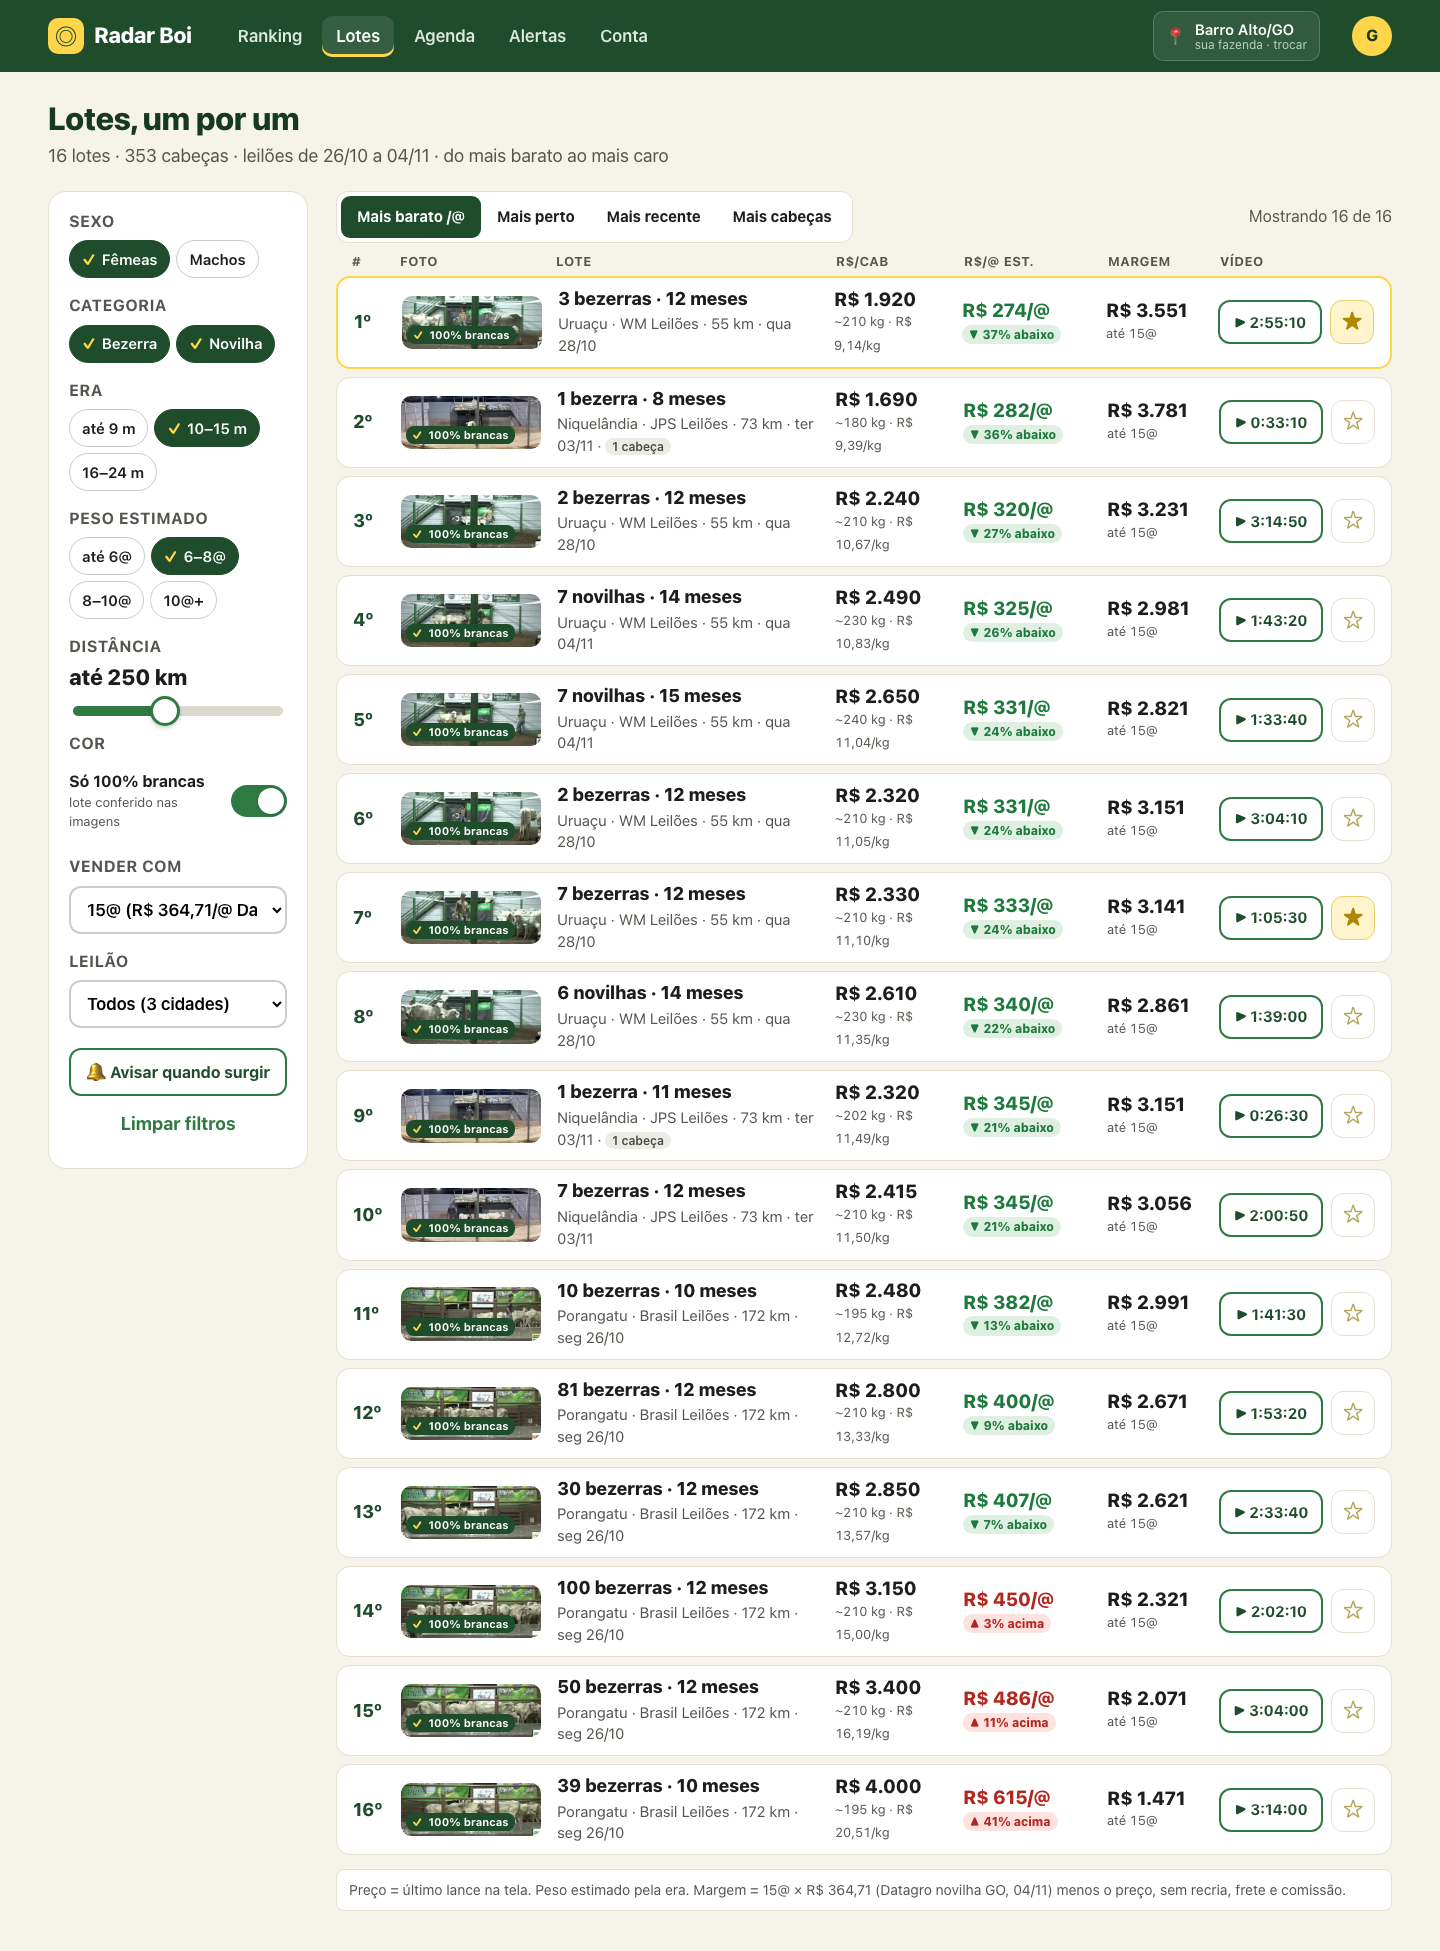
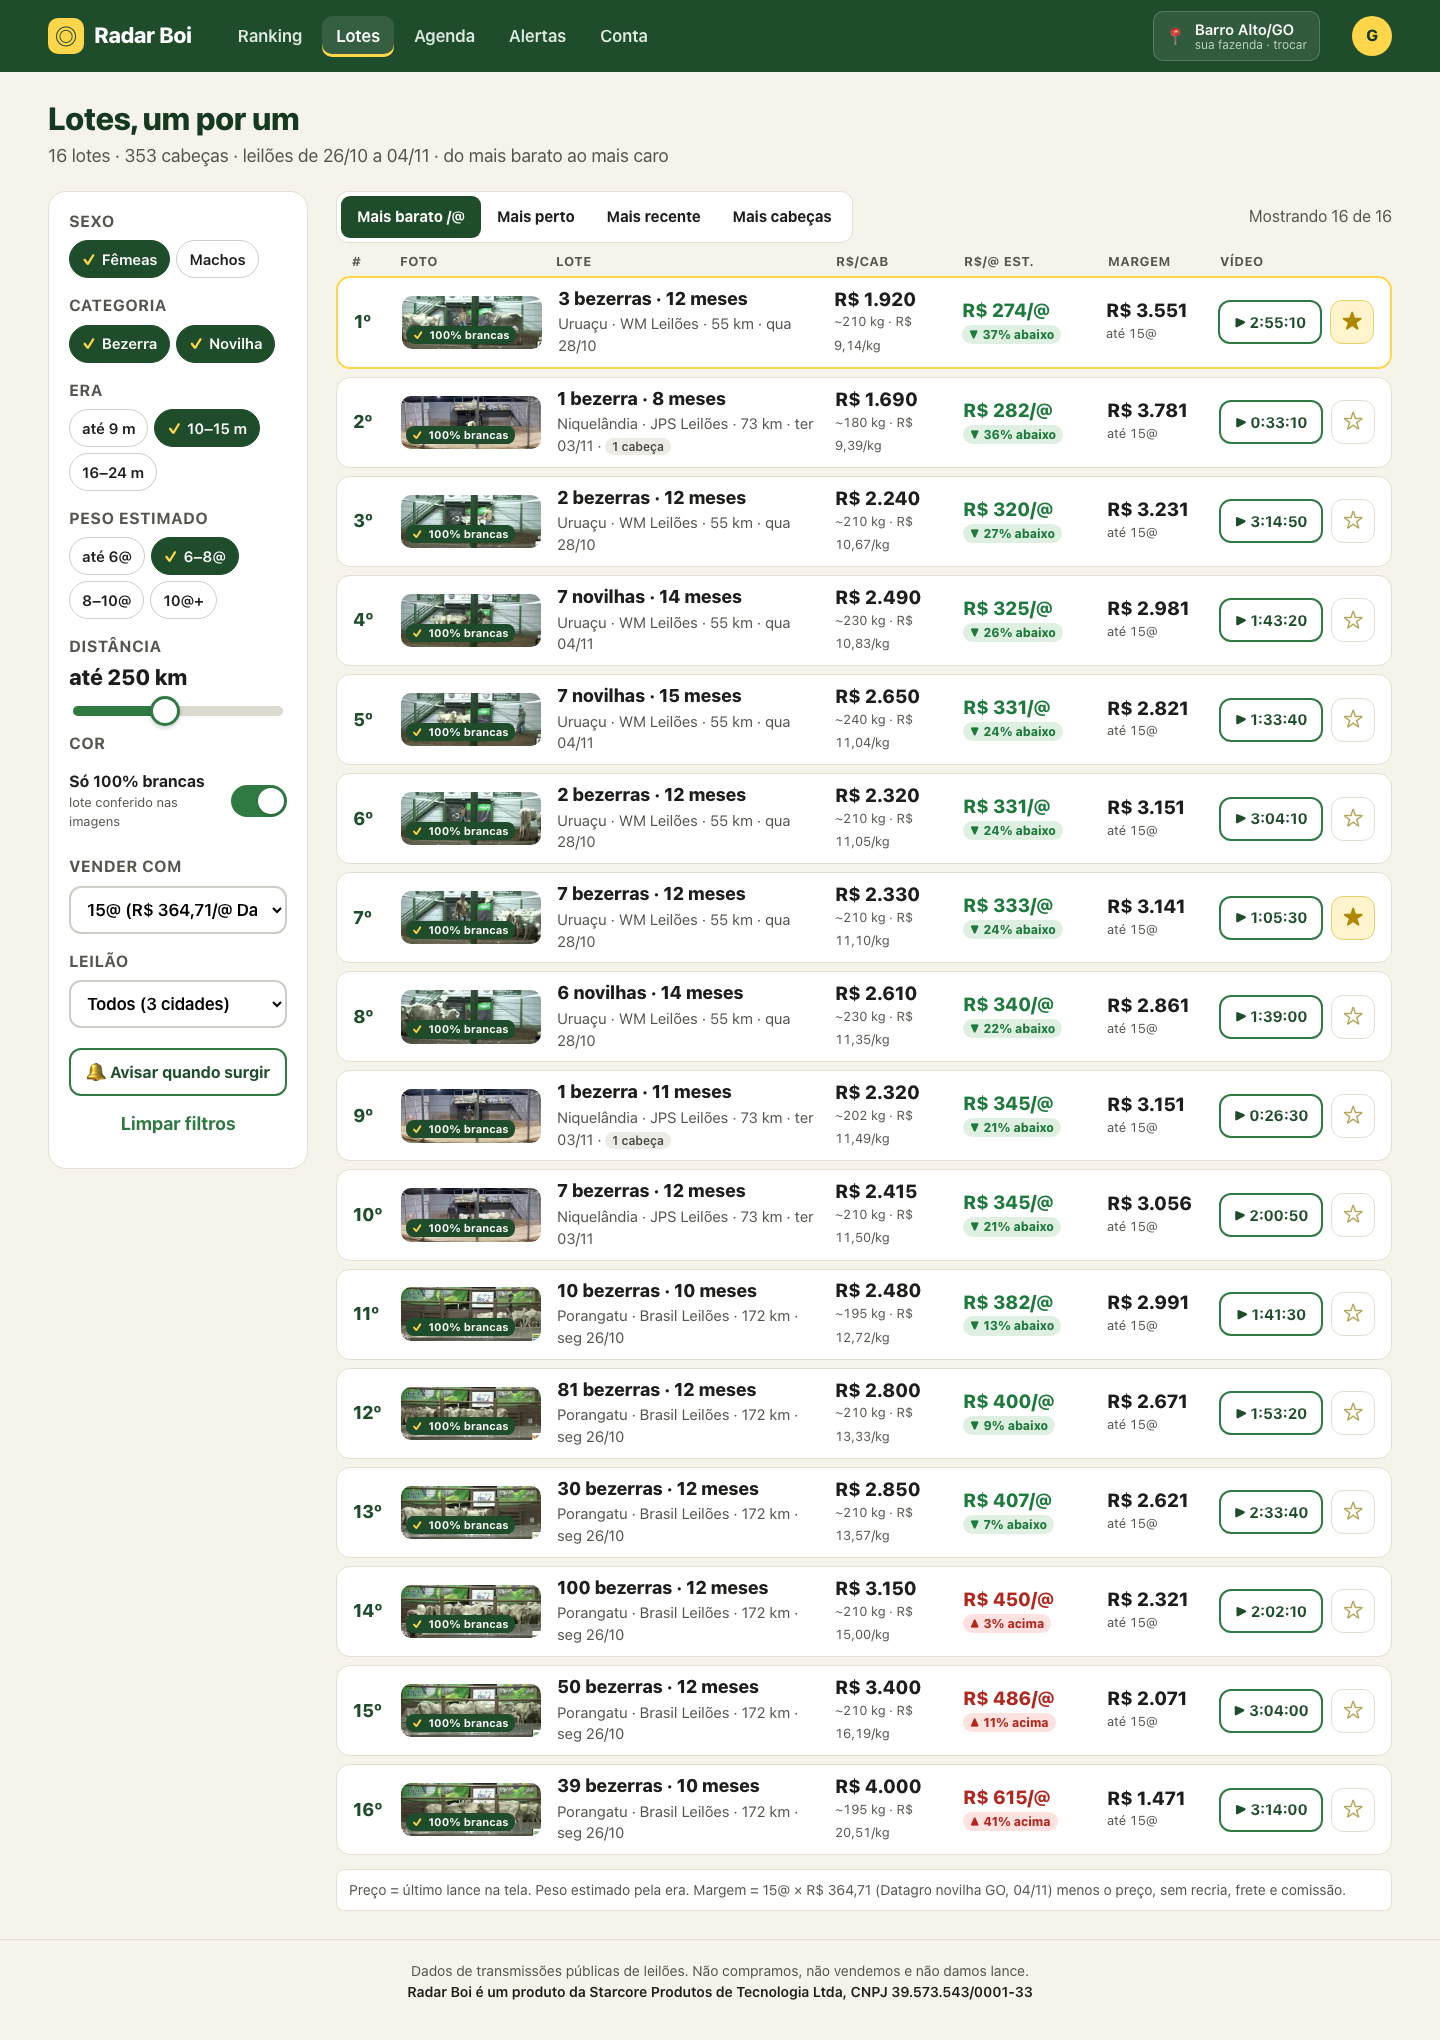
Rodapé legal: Starcore Produtos de Tecnologia Ltda, CNPJ 39.573.543/0001-33 (site, telas web e app/Conta)

diff --git a/docs/design/app/a12-conta.html b/docs/design/app/a12-conta.html
@@ -3,16 +3,17 @@
 <title>A12 · Conta, fazenda e plano · Radar Boi</title>
 <link rel="stylesheet" href="../rb.css">
 <style>
-.pf{display:flex;gap:14px;align-items:center;margin-bottom:14px}
+.pf{display:flex;gap:14px;align-items:center;margin-bottom:10px}
 .pf .av{width:60px;height:60px;border-radius:50%;background:var(--amarelo);display:grid;place-items:center;font:800 26px/1 var(--fonte);color:var(--verde-900)}
 .pf b{font-size:22px;display:block}.pf small{color:var(--cinza);font-size:15px}
 .pl{background:var(--amarelo);border-radius:16px;padding:14px 16px;display:flex;justify-content:space-between;align-items:center}
 .pl b{font-size:19px;display:block}.pl span{font-size:15px;color:#4a3a00}
 .pl .d{font:800 34px/1 var(--fonte);color:var(--verde-900);text-align:center}.pl .d small{display:block;font-size:12px}
-.gr{background:#fff;border:1px solid var(--areia);border-radius:16px;margin-top:12px}
-.gr .l{display:flex;align-items:center;gap:12px;padding:0 16px;min-height:56px;border-top:1px solid #eee;font-size:17px}
+.gr{background:#fff;border:1px solid var(--areia);border-radius:16px;margin-top:10px}
+.gr .l{display:flex;align-items:center;gap:12px;padding:0 16px;min-height:48px;border-top:1px solid #eee;font-size:17px}
 .gr .l:first-child{border-top:0}
 .gr .l i{font-style:normal;width:26px;text-align:center}
+.legal{text-align:center;color:var(--cinza);font-size:13px;line-height:1.4;margin:10px 8px 4px}
 .gr .l span{flex:1}.gr .l em{font-style:normal;color:var(--cinza);font-size:15px}
 </style></head>
 <body class="app-pg">
@@ -35,6 +36,7 @@
     <div class="l"><i>💬</i><span>Falar no WhatsApp</span><em>›</em></div>
     <div class="l"><i>📶</i><span>Modo sinal fraco</span><span class="rb-toggle is-on" style="flex:none"></span></div>
   </div>
+  <p class="legal">Radar Boi é um produto da Starcore Produtos de Tecnologia Ltda, CNPJ 39.573.543/0001-33</p>
 </div><nav class="rb-tabbar"><a class=""><span class="i">⌂</span>Início</a><a class=""><span class="i">🐂</span>Lotes</a><a class=""><span class="i">📅</span>Agenda</a><a class=""><span class="i">🔔</span>Alertas<span class="bol">2</span></a><a class="is-on"><span class="i">👤</span>Conta</a></nav>
 <span class="home-ind"></span>
 </div>

diff --git a/docs/design/index.html b/docs/design/index.html
@@ -50,5 +50,4 @@ figcaption b{font-size:16px} figcaption span{color:var(--cinza)} figcaption em{f
 <figcaption><b>Resumo de segunda</b><span>6h, ranking da semana</span><em><a href="whatsapp/z01-resumo-segunda.html">HTML</a> · <a href="png/z01-resumo-segunda.png">PNG</a></em></figcaption></figure><figure class="m"><a href="whatsapp/z02-alerta-entrando.html"><img loading="lazy" src="png/z02-alerta-entrando.png" alt="Alerta entrando agora"></a>
 <figcaption><b>Alerta entrando agora</b><span>Com foto e botão</span><em><a href="whatsapp/z02-alerta-entrando.html">HTML</a> · <a href="png/z02-alerta-entrando.png">PNG</a></em></figcaption></figure></div></section><section><h2>Design system <small>1 telas</small></h2><div class="g gw"><figure class="w"><a href="componentes.html"><img loading="lazy" src="png/componentes.png" alt="Componentes e estados"></a>
 <figcaption><b>Componentes e estados</b><span>Cores, tipos, cards, vazio, carregando, erro, sem sinal</span><em><a href="componentes.html">HTML</a> · <a href="png/componentes.png">PNG</a></em></figcaption></figure></div></section>
-<div style="height:40px"></div>
-</main></body></html>
+</main><footer class="rb-rodape">Radar Boi é um produto da Starcore Produtos de Tecnologia Ltda, CNPJ 39.573.543/0001-33</footer></body></html>

diff --git a/docs/design/web/w01-landing.html b/docs/design/web/w01-landing.html
@@ -180,5 +180,5 @@ footer .in{max-width:1240px;margin:0 auto;padding:28px;display:flex;justify-cont
 </section>
 
 <section class="cta-f"><div class="sec"><h2>Teste 30 dias. Se não achar lote mais barato, cancela.</h2><a class="rb-btn rb-btn--wa" style="font-size:20px;padding:0 30px;min-height:64px">Começar pelo WhatsApp</a></div></section>
-<footer><div class="in"><span>◎ Radar Boi · radarboi.com</span><span>Dados de transmissões públicas de leilões. Não compramos, não vendemos e não damos lance.</span></div></footer>
+<footer><div class="in"><span>◎ Radar Boi · radarboi.com</span><span>Dados de transmissões públicas de leilões. Não compramos, não vendemos e não damos lance.<br><b style="color:#fff">Radar Boi é um produto da Starcore Produtos de Tecnologia Ltda, CNPJ 39.573.543/0001-33</b></span></div></footer>
 </body></html>

diff --git a/docs/design/rb.css b/docs/design/rb.css
@@ -210,3 +210,9 @@ body.app-pg{background:#d9d5c8;display:flex;justify-content:center;align-items:f
 .a-sec a{font-size:16px;font-weight:700;text-decoration:none}
 .home-ind{position:absolute;bottom:8px;left:50%;margin-left:-67px;width:134px;height:5px;border-radius:3px;background:#111}
 .escuro .home-ind{background:#fff}
+
+/* ---------- Rodapé legal (RodapeLegal) ---------- */
+.rb-rodape{border-top:1px solid var(--areia);background:var(--creme);color:var(--cinza);font:400 var(--t-14)/1.5 var(--fonte);text-align:center;padding:20px 28px 28px}
+.rb-rodape b{color:var(--tinta);font-weight:600}
+.rb-rodape--escuro{background:transparent;border-top-color:#ffffff26;color:#cfe3d4}
+.rb-rodape--escuro b{color:#fff}

diff --git a/docs/design/web/w07-agenda.html b/docs/design/web/w07-agenda.html
@@ -84,4 +84,5 @@
 <div class="av"><span>🔔 Avisar</span><span class="rb-toggle"></span></div></div></div></div>
   <div class="rb-nota" style="margin-top:8px">Os leilões semanais se repetem no mesmo dia. Quando a leiloeira divulga horário e catálogo, a agenda atualiza e quem ligou o aviso recebe no WhatsApp.</div>
 </main>
+<footer class="rb-rodape">Dados de transmissões públicas de leilões. Não compramos, não vendemos e não damos lance.<br><b>Radar Boi é um produto da Starcore Produtos de Tecnologia Ltda, CNPJ 39.573.543/0001-33</b></footer>
 </body></html>

diff --git a/docs/index.html b/docs/index.html
@@ -76,7 +76,7 @@
   <p class="cta"><a class="btn" id="btnWa" href="#">Quero testar 30 dias grátis</a></p>
 </section>
 
-<footer>Radar Boi · dados de transmissões públicas de leilões · não compramos nem vendemos gado e não damos lance por você.</footer>
+<footer>Radar Boi · dados de transmissões públicas de leilões · não compramos nem vendemos gado e não damos lance por você.<br>Radar Boi é um produto da Starcore Produtos de Tecnologia Ltda, CNPJ 39.573.543/0001-33</footer>
 <script src="app.js"></script>
 </body>
 </html>

diff --git a/docs/design/web/w02-entrar.html b/docs/design/web/w02-entrar.html
@@ -60,4 +60,5 @@ body{background:var(--verde-800)}
   </div>
   <div class="nota"><span><b>Por que WhatsApp?</b> É onde chegam o resumo de segunda e os avisos de lote.</span><span><b>Sem cartão no teste.</b> No dia 25 a gente pergunta se quer continuar.</span></div>
 </div>
+<footer class="rb-rodape rb-rodape--escuro">Dados de transmissões públicas de leilões. Não compramos, não vendemos e não damos lance.<br><b>Radar Boi é um produto da Starcore Produtos de Tecnologia Ltda, CNPJ 39.573.543/0001-33</b></footer>
 </body></html>

diff --git a/docs/design/web/w03-onboarding.html b/docs/design/web/w03-onboarding.html
@@ -99,4 +99,5 @@
     <div class="rb-nota" style="margin-top:14px">O resumo de segunda e os avisos vão usar estas escolhas.</div>
   </aside>
 </div>
+<footer class="rb-rodape">Dados de transmissões públicas de leilões. Não compramos, não vendemos e não damos lance.<br><b>Radar Boi é um produto da Starcore Produtos de Tecnologia Ltda, CNPJ 39.573.543/0001-33</b></footer>
 </body></html>

diff --git a/docs/design/componentes.html b/docs/design/componentes.html
@@ -128,4 +128,5 @@
   </section>
   <div style="height:30px"></div>
 </main>
+<footer class="rb-rodape">Dados de transmissões públicas de leilões. Não compramos, não vendemos e não damos lance.<br><b>Radar Boi é um produto da Starcore Produtos de Tecnologia Ltda, CNPJ 39.573.543/0001-33</b></footer>
 </body></html>

diff --git a/docs/design/web/w05-lotes.html b/docs/design/web/w05-lotes.html
@@ -210,4 +210,5 @@
     </section>
   </div>
 </main>
+<footer class="rb-rodape">Dados de transmissões públicas de leilões. Não compramos, não vendemos e não damos lance.<br><b>Radar Boi é um produto da Starcore Produtos de Tecnologia Ltda, CNPJ 39.573.543/0001-33</b></footer>
 </body></html>

diff --git a/docs/design/web/w04-painel.html b/docs/design/web/w04-painel.html
@@ -119,4 +119,5 @@
     </aside>
   </div>
 </main>
+<footer class="rb-rodape">Dados de transmissões públicas de leilões. Não compramos, não vendemos e não damos lance.<br><b>Radar Boi é um produto da Starcore Produtos de Tecnologia Ltda, CNPJ 39.573.543/0001-33</b></footer>
 </body></html>

diff --git a/docs/design/web/w06-lote.html b/docs/design/web/w06-lote.html
@@ -96,4 +96,5 @@
     </div>
   </div>
 </main>
+<footer class="rb-rodape">Dados de transmissões públicas de leilões. Não compramos, não vendemos e não damos lance.<br><b>Radar Boi é um produto da Starcore Produtos de Tecnologia Ltda, CNPJ 39.573.543/0001-33</b></footer>
 </body></html>
